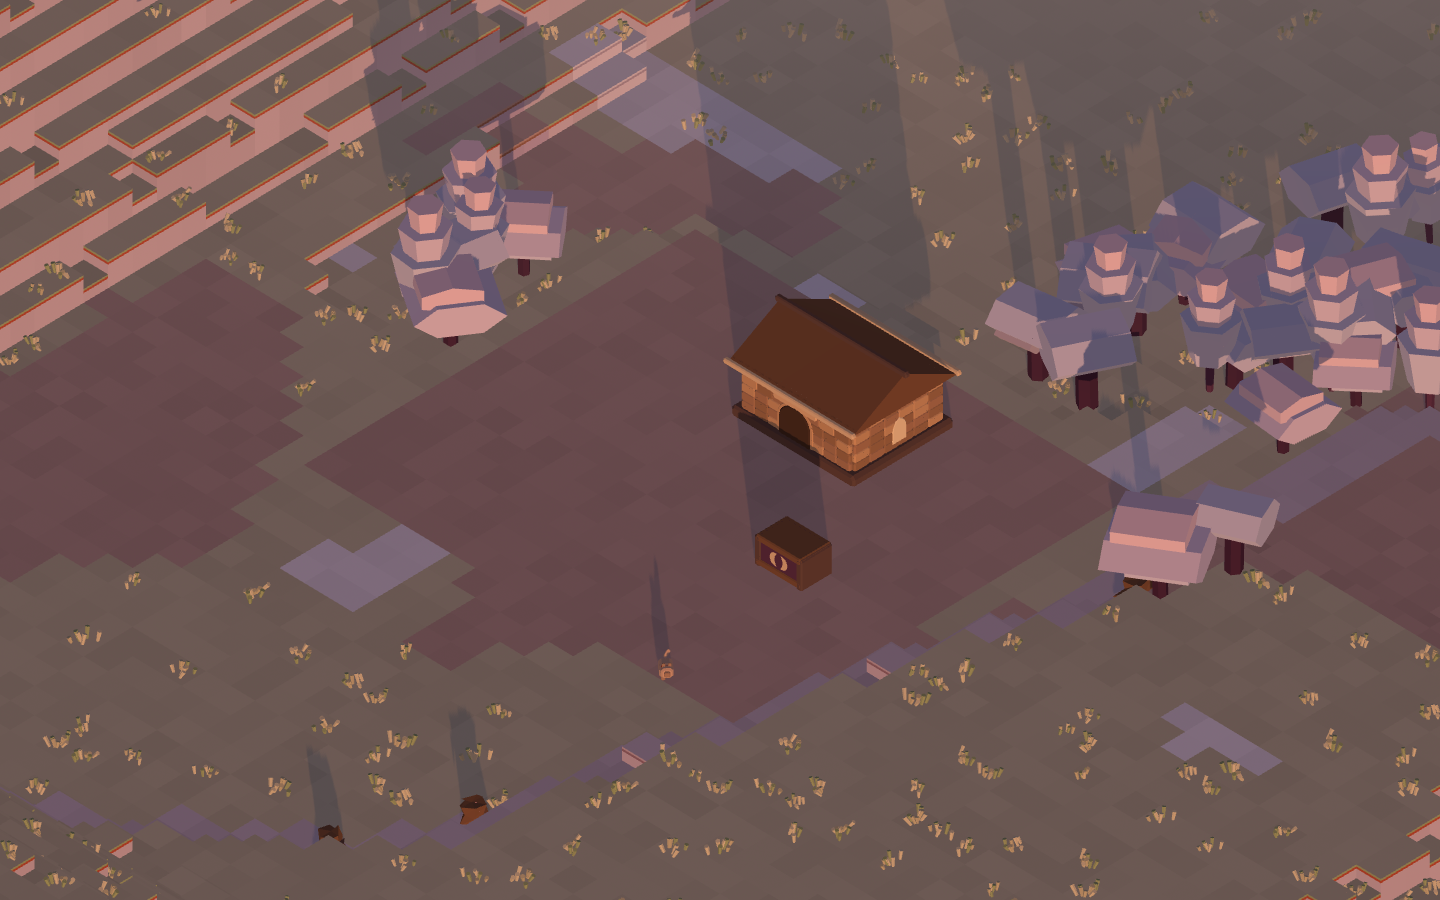
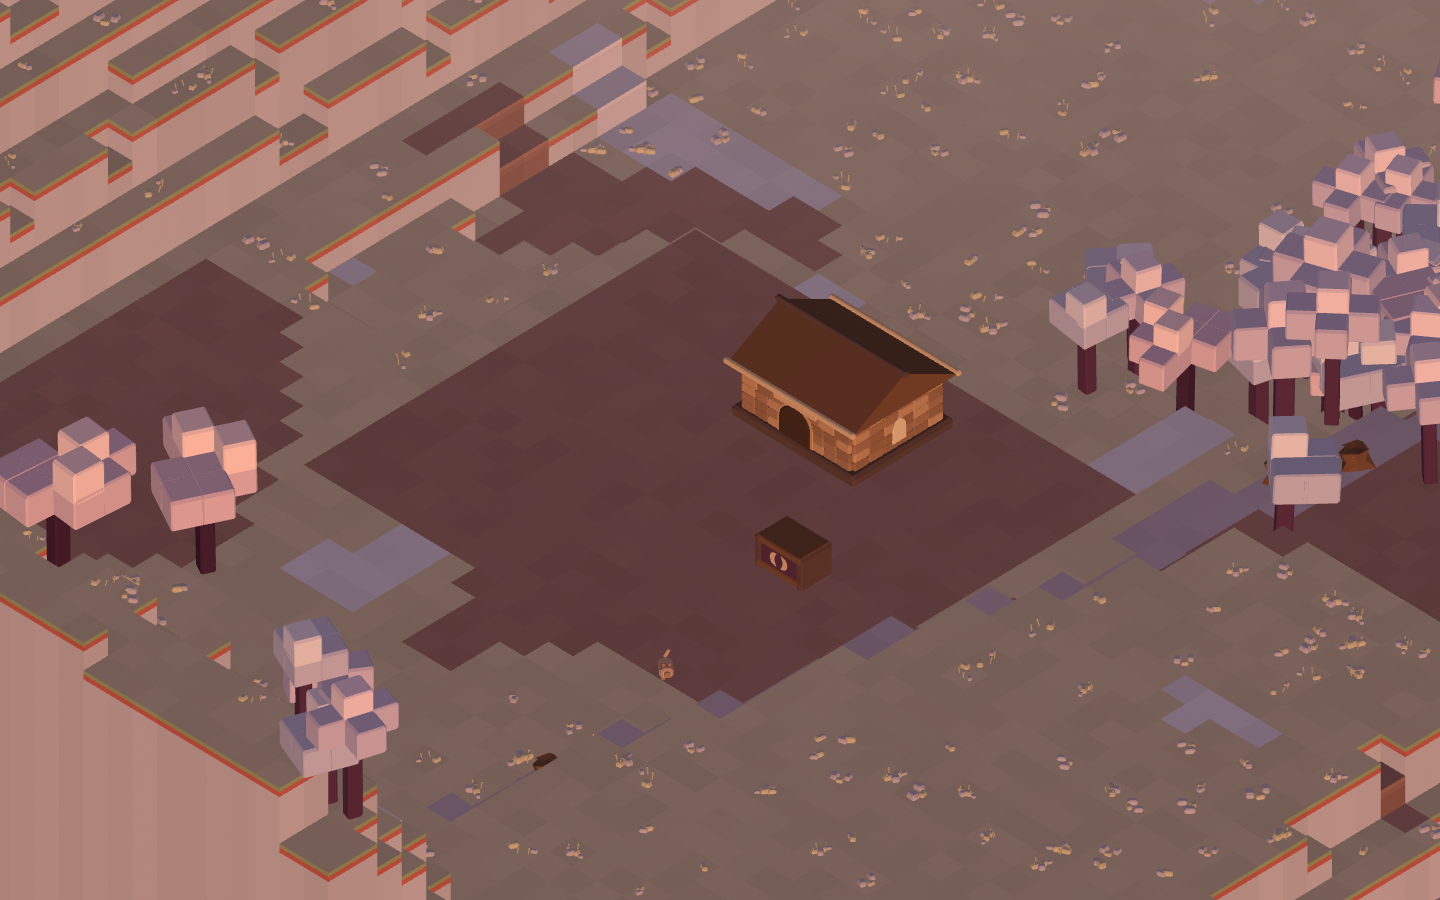
Match the reference footage: scale, trees, shading
Went back to the video and read four full-resolution frames instead of a
colour histogram. Four things were structurally wrong, and none of them
were colour:

- A HEIGHT LEVEL IS ONE UNIT, not a half. In the footage a single
  terrace step is a wall about as tall as a cell is wide; at 0.5 every
  riser is a kerb and the map flattens into a pattern rather than a
  landscape.

- THE CAMERA SITS CLOSER. The character stands about an eighth of the
  frame height, which at 1.72 units puts the orthographic span near 13,
  not 17.5.

- THERE ARE NO CAST SHADOWS. Not soft ones — none, in eighty seconds of
  footage. The whole look is flat per-face shading under a bright violet
  fill, and a directional shadow reads as a heavier game. Turning the
  shadow map off also buys back the entire shadow pass on mobile.

- TREES ARE A SLAB, NOT A CONE. A thin rectangular plum trunk carrying a
  flat cluster of large cubes three to five cells across. They are the
  only vertical thing in a world of flat plateaus, so their silhouette
  sets its whole read; stacked prisms narrowing to a point were doing as
  much damage as the palette was.

Ground repainted per material rather than uniformly: sand meadow keeps
the full four-band read (sand top, dappled olive lip, rust band, pale
grey-lilac rock), snow gets no banding at all, clay is a darker shade of
its own top. Grass tufts are now the small pale pebble specks the
footage actually scatters.

diff --git a/src/world/props.js b/src/world/props.js
@@ -1,6 +1,6 @@
 import * as THREE from 'three'
-import { bake, bakedMat, COLUMN, FLAT, POINT, shardMat, stoneLump, TAPER } from '../core/kit.js'
-import { C, shade, UI } from '../core/palette.js'
+import { bake, bakedMat, chamferBox, COLUMN, FLAT, POINT, shardMat, stoneLump, TAPER } from '../core/kit.js'
+import { C, shade, sunlit, UI } from '../core/palette.js'
 import { shardGeometry } from '../core/mark.js'
 import { LEVEL, N, P } from './grid.js'
 
@@ -38,38 +38,51 @@ function cellRand(x, z, salt = 0) {
 /**
  * The three trees.
  *
- * Ridgepine is a spire, Bellwood is a canopy, Ironbark is a fist. They differ in
- * SILHOUETTE first and colour second — a forest whose species are told apart by
- * hue is a forest that becomes one species the moment the sun goes down.
+ * The reference's trees are one shape and it is not a cone: a **thin, tall,
+ * rectangular trunk** in plum, carrying a **flat cluster of large cubes** — a
+ * slab of canopy three to five cells across and about one cell thick, sitting
+ * on top like a table. There is nothing tapered about them, no branching, and
+ * no cone.
+ *
+ * An earlier pass built them as stacked hex prisms narrowing to a point, which
+ * is what a conifer looks like and is not what is in the footage. That single
+ * silhouette was doing as much damage as the palette was, because trees are the
+ * only vertical thing in a world of flat plateaus and they set its whole read.
+ *
+ * The three kinds differ by CANOPY PLAN and height, not by colour: a compact
+ * plus, a wide ragged blob, and a small dense square.
  */
+
+/** Cube-cluster canopy plans, on a cell grid. Offsets are in canopy cubes. */
+const CANOPY_PLANS = [
+  // Compact plus, one cube of relief.
+  [[0, 0, 0], [1, 0, 0], [-1, 0, 0], [0, 0, 1], [0, 0, -1], [0, 1, 0]],
+  // Wide and ragged, the commonest in the footage.
+  [[0, 0, 0], [1, 0, 0], [2, 0, 0], [-1, 0, 0], [0, 0, 1], [1, 0, 1], [-1, 0, -1], [0, 0, -1], [1, 1, 0], [0, 1, 1]],
+  // Small and dense.
+  [[0, 0, 0], [1, 0, 0], [0, 0, 1], [1, 0, 1], [0, 1, 0]],
+]
+
 function treeGeometry(kind) {
-  if (kind === 0) {
-    // Ridgepine — narrow, stacked, tallest thing in the valley.
-    const parts = [
-      { geometry: TAPER, position: [0, 1.1, 0], scale: [0.34, 2.2, 0.34], color: C.trunk },
-      { geometry: TAPER, position: [0, 2.0, 0], scale: [1.9, 1.5, 1.9], color: C.canopyC },
-      { geometry: TAPER, position: [0, 2.9, 0], scale: [1.5, 1.3, 1.5], color: C.canopyA },
-      { geometry: TAPER, position: [0, 3.7, 0], scale: [1.0, 1.1, 1.0], color: C.canopyB },
-    ]
-    return bake(parts)
+  const plan = CANOPY_PLANS[kind % CANOPY_PLANS.length]
+  const cube = 0.92 // one canopy cube, in world units
+  const trunkH = [3.4, 2.9, 2.4][kind % 3]
+  const tone = [C.canopyA, C.canopyB, C.canopyC][kind % 3]
+  const parts = [
+    // The trunk is a BOX and it is thin. A tapered prism reads as a conifer.
+    { geometry: chamferBox(0.42, trunkH, 0.42, 0.04), position: [0, trunkH / 2, 0], color: kind === 1 ? C.trunkDark : C.trunk },
+  ]
+  for (const [dx, dy, dz] of plan) {
+    // Two tones inside one canopy, split by height, so the slab has a lit top
+    // and a shaded underside without needing a second light.
+    const col = dy > 0 ? sunlit(tone, 0.35) : tone
+    parts.push({
+      geometry: chamferBox(cube, cube, cube, 0.05),
+      position: [dx * cube * 0.94, trunkH + cube * (0.2 + dy * 0.86), dz * cube * 0.94],
+      color: col,
+    })
   }
-  if (kind === 1) {
-    // Bellwood — a short trunk under a wide, slightly lopsided crown. The offset
-    // on the upper plate is what stops a row of them reading as a stamp.
-    return bake([
-      { geometry: COLUMN, position: [0, 0.75, 0], scale: [0.42, 1.5, 0.42], color: C.trunkDark },
-      { geometry: POINT, position: [0, 1.75, 0], scale: [2.6, 1.1, 2.6], color: C.canopyA },
-      { geometry: FLAT, position: [0.18, 2.35, -0.12], scale: [2.0, 0.8, 2.0], color: C.canopyB },
-      { geometry: FLAT, position: [-0.22, 1.5, 0.16], scale: [1.7, 0.6, 1.7], color: C.canopyC },
-    ])
-  }
-  // Ironbark — squat, thick, dark. Worth four days of felling and it looks it.
-  return bake([
-    { geometry: COLUMN, position: [0, 0.85, 0], scale: [0.62, 1.7, 0.62], color: C.trunkDark },
-    { geometry: COLUMN, position: [0.3, 1.5, 0.1], scale: [0.24, 0.9, 0.24], rotation: [0, 0, -0.5], color: C.trunkDark },
-    { geometry: POINT, position: [0, 2.1, 0], scale: [2.2, 1.3, 2.2], color: C.canopyC },
-    { geometry: POINT, position: [0.35, 1.75, 0.2], scale: [1.3, 0.8, 1.3], color: C.canopyDead },
-  ])
+  return bake(parts)
 }
 
 function rockGeometry(kind) {
@@ -96,22 +109,35 @@ function saplingGeometry() {
 }
 
 function grassGeometry(kind) {
+  // Tiny pale specks, not tufts. The footage scatters a few small stones and a
+  // couple of thin blades per cell — at any distance it reads as texture on the
+  // ground rather than as vegetation, and a field of proper grass tufts buries
+  // the flat plateaus that are the whole point of the look.
   const parts = []
-  // Six to nine blades, short and broad. The first pass used three tall thin
-  // ones and a field of them read as a field of pins rather than of grass.
-  const blades = 6 + (kind % 4)
-  for (let i = 0; i < blades; i++) {
-    const a = cellRand(kind * 13, i, 5) * Math.PI * 2
-    const r = 0.08 + cellRand(i, kind, 9) * 0.3
-    const hgt = 0.16 + cellRand(kind, i, 3) * 0.17
-    const lean = 0.24 + cellRand(i, kind, 11) * 0.3
+  const stones = 2 + (kind % 3)
+  for (let i = 0; i < stones; i++) {
+    const a = cellRand(kind * 17, i, 21) * Math.PI * 2
+    const r = 0.1 + cellRand(i, kind, 23) * 0.32
+    const sz = 0.07 + cellRand(kind, i, 29) * 0.06
     parts.push({
-      geometry: TAPER,
-      position: [Math.cos(a) * r, hgt / 2, Math.sin(a) * r],
-      scale: [0.13, hgt, 0.13],
-      rotation: [Math.sin(a) * lean, a, Math.cos(a) * lean],
-      color: i % 3 === 0 ? C.grassDry : i % 3 === 1 ? C.grass : C.shrub,
+      geometry: chamferBox(sz * 2, sz, sz * 1.7, sz * 0.3),
+      position: [Math.cos(a) * r, sz * 0.5, Math.sin(a) * r],
+      rotation: [0, a, 0],
+      color: i % 2 ? C.grassDry : C.stoneProp,
     })
+  }
+  if (kind % 2 === 0) {
+    for (let i = 0; i < 2; i++) {
+      const a = cellRand(i, kind, 31) * Math.PI * 2
+      const r = 0.06 + cellRand(kind, i, 37) * 0.2
+      parts.push({
+        geometry: TAPER,
+        position: [Math.cos(a) * r, 0.12, Math.sin(a) * r],
+        scale: [0.05, 0.24, 0.05],
+        rotation: [Math.sin(a) * 0.2, a, Math.cos(a) * 0.2],
+        color: C.grass,
+      })
+    }
   }
   return bake(parts)
 }

diff --git a/tools/checks.js b/tools/checks.js
@@ -102,10 +102,19 @@ console.log('\ncolourway')
 console.log('\ncamera')
 {
   const src = read(path.join(SRC, 'world/camera.js'))
-  assert(/PITCH = -37/.test(src), 'the pitch is Velion\'s -37 degrees')
-  assert(/YAWS = \[45, 135, 225, 315\]/.test(src), 'the yaws are diagonal (45/135/225/315), not axis-aligned')
-  assert(/SIZE_DEFAULT = 17\.5/.test(src), 'the default orthographic size is 17.5')
   const main = read(path.join(SRC, 'main.js'))
+  const gridSrc = read(path.join(SRC, 'world/grid.js'))
+  assert(/PITCH = -37/.test(src), "the pitch is Velion's -37 degrees")
+  assert(/YAWS = \[45, 135, 225, 315\]/.test(src), 'the yaws are diagonal (45/135/225/315), not axis-aligned')
+  // Measured off the reference: the character stands about an eighth of the
+  // frame height, which at 1.72 units tall puts the vertical span near 13.
+  assert(/SIZE_DEFAULT = 13/.test(src), 'the default orthographic size is 13')
+  // A level is a WALL, not a curb. At half a unit every terrace edge is a kerb
+  // and the whole map flattens into a pattern instead of a landscape.
+  assert(/export const LEVEL = 1\.0/.test(gridSrc), 'one height level is one world unit')
+  // The reference has no cast shadows at all. A directional shadow immediately
+  // reads as a heavier, more realistic game than this one is.
+  assert(/shadowMap\.enabled = false/.test(main), 'no cast shadows')
   assert(/OrthographicCamera/.test(main), 'the game builds an orthographic camera')
   assert(!/PerspectiveCamera/.test(main), 'no perspective camera anywhere in main')
 }

diff --git a/src/core/palette.js b/src/core/palette.js
@@ -97,13 +97,19 @@ export const C = {
  * Sampled off the reference footage: top #c8c0a8, body #c8b8c8.
  */
 export const GROUND = {
-  MEADOW: ['#c6bfa4', '#9aa878', '#b4553c', '#c6b6c6'],
-  ASH: ['#e6e2ec', '#d2ccdc', '#a89ab0', '#d8cee0'],
-  LOAM: ['#bfa198', '#a88a84', '#8e5e4c', '#b3a0bc'],
-  STONE: ['#c2bcc8', '#aca6b6', '#8f8595', '#b6aac0'],
-  SHORE: ['#ddd4bc', '#cbc0a6', '#b7a68e', '#cdbfd0'],
-  TILLED: ['#8d6a55', '#7a5a48', '#6b4c3c', '#8a6f84'],
-  WET: ['#6b4c3e', '#5d4034', '#4f352b', '#6b5468'],
+  // Sand meadow. The one material with the full four-band read: a pale sand top,
+  // a dappled olive lip, a rust band under it, and pale grey-lilac rock below.
+  MEADOW: ['#ded0b0', '#9aa877', '#c4685c', '#c9c5cf'],
+  // Snow. Near-white, and NO banding — the reference's snow plateaus are one
+  // white top over one faintly cooler face, and adding strata to them is what
+  // makes a snowfield look like striped rock.
+  ASH: ['#eae7f0', '#e0dcea', '#d4cfe0', '#d9d5e4'],
+  // Clay. A darker version of its own top, no rust, no olive.
+  LOAM: ['#b0857a', '#a0776c', '#946e66', '#8f6a62'],
+  STONE: ['#c8c4cc', '#b8b3c2', '#a49eb0', '#b0aabe'],
+  SHORE: ['#e2d8be', '#d0c5a8', '#c0b096', '#cbc7d2'],
+  TILLED: ['#8d6a55', '#7f5e4a', '#6f5140', '#6b4f42'],
+  WET: ['#6b4c3e', '#604437', '#553c30', '#4e372c'],
   SCAR: ['#c9bcc8', '#b3a2b2', '#8d6f7e', '#bdaec2'],
 }
 export const GROUND_KEYS = Object.keys(GROUND)

diff --git a/src/world/worldgen.js b/src/world/worldgen.js
@@ -98,11 +98,11 @@ export function generate(seed) {
   for (let z = 0; z < N; z++) {
     rx += (land(z * 0.09, 4.5) - 0.5) * 2.2
     rx = clamp(rx, N * 0.58, N - 9)
-    const width = 2.8 + (z / N) * 5.2
+    const width = 4.5 + (z / N) * 7
     for (let x = Math.floor(rx - width - 2); x <= Math.ceil(rx + width + 2); x++) {
       if (x < 0 || x >= N) continue
       const t = 1 - clamp(Math.abs(x - rx) / (width + 2), 0, 1)
-      const cut = smoothstep(0, 1, t) * 12
+      const cut = smoothstep(0, 1, t) * 14
       const i = z * N + x
       raw[i] = Math.min(raw[i], Math.max(2.4, raw[i] - cut))
     }
@@ -112,7 +112,7 @@ export function generate(seed) {
   // a noisy floor reads as a puddle field once the water plane is drawn over it.
   for (let z = 0; z < N; z++) {
     for (let x = 0; x < N; x++) {
-      const d = Math.hypot(x - N * 0.78, z - N * 0.85) / 15
+      const d = Math.hypot(x - N * 0.76, z - N * 0.84) / 19
       if (d < 1) {
         const i = z * N + x
         raw[i] = Math.min(raw[i], 3.1 + smoothstep(0.55, 1, d) * 5)

diff --git a/src/world/mesher.js b/src/world/mesher.js
@@ -25,12 +25,11 @@ import { GROUND, GROUND_KEYS } from '../core/palette.js'
 
 // Stratum thicknesses in world units, read down from the top of a face.
 //
-// A level is 0.5 units, so these two together take about a third of a one-level
-// riser and the body takes the rest. The rust band is the strongest colour in
-// the ground palette and it wants to be a HAIRLINE: at twice this thickness
-// every terrace edge draws itself in red and the valley reads as corduroy.
-const ACCENT = 0.07
-const RUST = 0.08
+// A level is 1.0 units, so these two together take about a third of a riser and
+// the body takes the rest — which is what the reference shows: a dappled green
+// lip, a band of rust under it, then pale rock all the way down.
+const ACCENT = 0.14
+const RUST = 0.18
 
 // Scratch colour, reused — building a THREE.Color per vertex allocates roughly
 // 200k objects for one full remesh of the valley.

diff --git a/src/main.js b/src/main.js
@@ -67,8 +67,11 @@ function makeRenderer() {
   const renderer = new THREE.WebGLRenderer({ antialias: true, powerPreference: 'high-performance' })
   renderer.setPixelRatio(Math.min(devicePixelRatio, 2))
   renderer.setSize(innerWidth, innerHeight)
-  renderer.shadowMap.enabled = true
-  renderer.shadowMap.type = THREE.PCFSoftShadowMap
+  // NO shadow map. The reference has no cast shadows at all — not soft ones,
+  // none: the whole look is flat per-face shading under a bright violet fill,
+  // and a directional shadow immediately reads as a different, heavier game.
+  // It also buys back the entire shadow pass on a mobile GPU.
+  renderer.shadowMap.enabled = false
   // NO tone mapping. ACES is built for photographic HDR: it rolls the highlights
   // off and pulls the mid-tones down, which is precisely the range this world
   // lives in. Under it the pastel palette came out as dusty stone. The grade

diff --git a/src/world/camera.js b/src/world/camera.js
@@ -22,9 +22,11 @@ import { damp } from '../core/rng.js'
 
 const PITCH = -37 * (Math.PI / 180)
 const YAWS = [45, 135, 225, 315].map((d) => d * (Math.PI / 180))
-const SIZE_DEFAULT = 17.5
-const SIZE_MIN = 11
-const SIZE_MAX = 26
+// Measured off the reference: the character stands about one-eighth of the
+// frame height, and at 1.72 units tall that puts the vertical span near 13.
+const SIZE_DEFAULT = 13
+const SIZE_MIN = 9
+const SIZE_MAX = 22
 /** How far back the camera sits from the player. Orthographic, so this changes
  *  nothing about the framing — it only decides how much of the world is in
  *  front of the near plane. */

diff --git a/src/world/grid.js b/src/world/grid.js
@@ -16,7 +16,15 @@ import { G } from '../core/palette.js'
  */
 
 export const N = 96 // cells per side
-export const LEVEL = 0.5 // world units per height level
+/**
+ * World units per height level.
+ *
+ * ONE, not a half. In the reference a single terrace step is a wall about as
+ * tall as a cell is wide — you read the plateau edges as real drops from across
+ * the valley. At 0.5 every riser is a curb and the whole map flattens into a
+ * pattern rather than a landscape.
+ */
+export const LEVEL = 1.0
 export const CHUNK = 16
 export const CHUNKS = N / CHUNK
 export const WATER_LEVEL = 6 // in levels, not units

diff --git a/src/world/sky.js b/src/world/sky.js
@@ -94,7 +94,7 @@ export class Sky {
 
     // --- lights -----------------------------------------------------------
     this.key = new THREE.DirectionalLight('#ffe6c8', 1.6)
-    this.key.castShadow = true
+    this.key.castShadow = false
     this.key.shadow.mapSize.set(2048, 2048)
     // The shadow camera follows the player rather than covering the map. The
     // size is a real trade and it is easy to get wrong in the tight direction:
